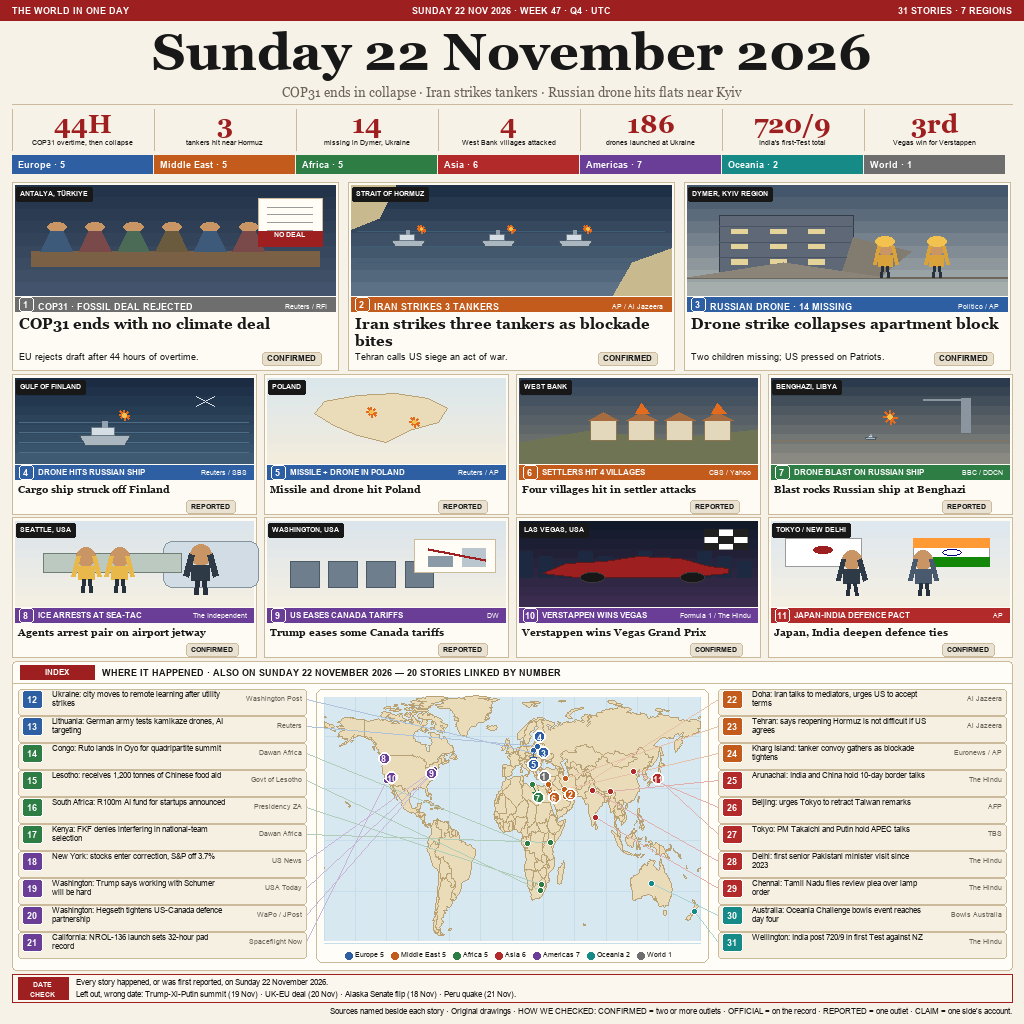
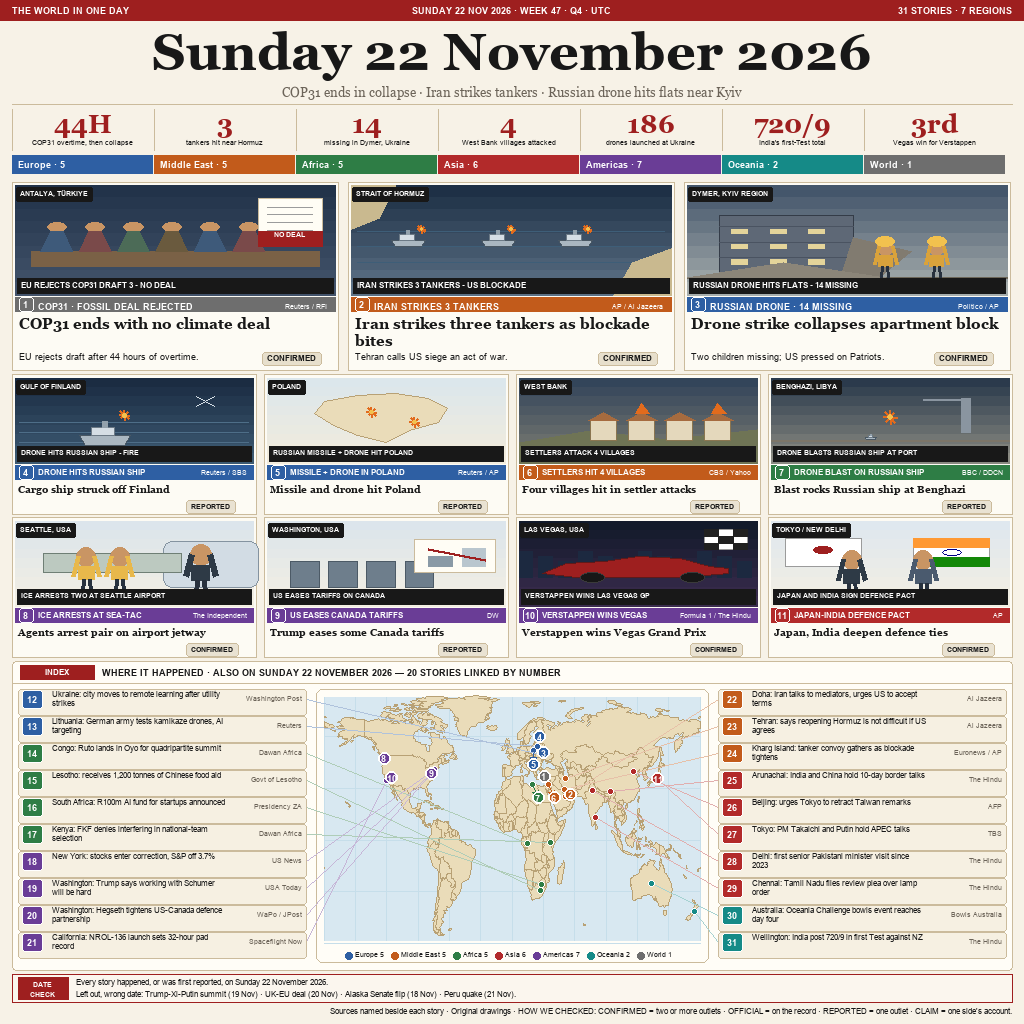
Add one-line story caption inside each illustration

Changed region(s): [[0.0, 0.25, 1.0, 0.3125], [0.0, 0.5625, 1.0, 0.5938], [0.0, 0.4375, 1.0, 0.4688]]

diff --git a/render.py b/render.py
@@ -377,6 +377,24 @@ def scene(d, box, s):
     else:
         el((0.34, 0.30), (0.66, 0.62), outline=col, width=2)
 
+    captions = {
+        "cop": "EU REJECTS COP31 DRAFT 3 - NO DEAL",
+        "hormuz": "IRAN STRIKES 3 TANKERS - US BLOCKADE",
+        "dymer": "RUSSIAN DRONE HITS FLATS - 14 MISSING",
+        "shipdrone": "DRONE HITS RUSSIAN SHIP - FIRE",
+        "poland": "RUSSIAN MISSILE + DRONE HIT POLAND",
+        "westbank": "SETTLERS ATTACK 4 VILLAGES",
+        "benghazi": "DRONE BLASTS RUSSIAN SHIP AT PORT",
+        "ice": "ICE ARRESTS TWO AT SEATTLE AIRPORT",
+        "tariff": "US EASES TARIFFS ON CANADA",
+        "f1": "VERSTAPPEN WINS LAS VEGAS GP",
+        "flags_jp_in": "JAPAN AND INDIA SIGN DEFENCE PACT",
+    }
+    cap = captions.get(k, "")
+    if cap:
+        f = font(8 if bw > 300 else 7, True)
+        d.rectangle([x0 + 2, y1 - 17, x1 - 2, y1 - 2], fill="#181818")
+        put(d, (x0 + 6, y1 - 15), cap, f, "#FFFFFF")
     tag(d, x0 + 5, y0 + 4, s["place"], "#181818", 7)
 
 
